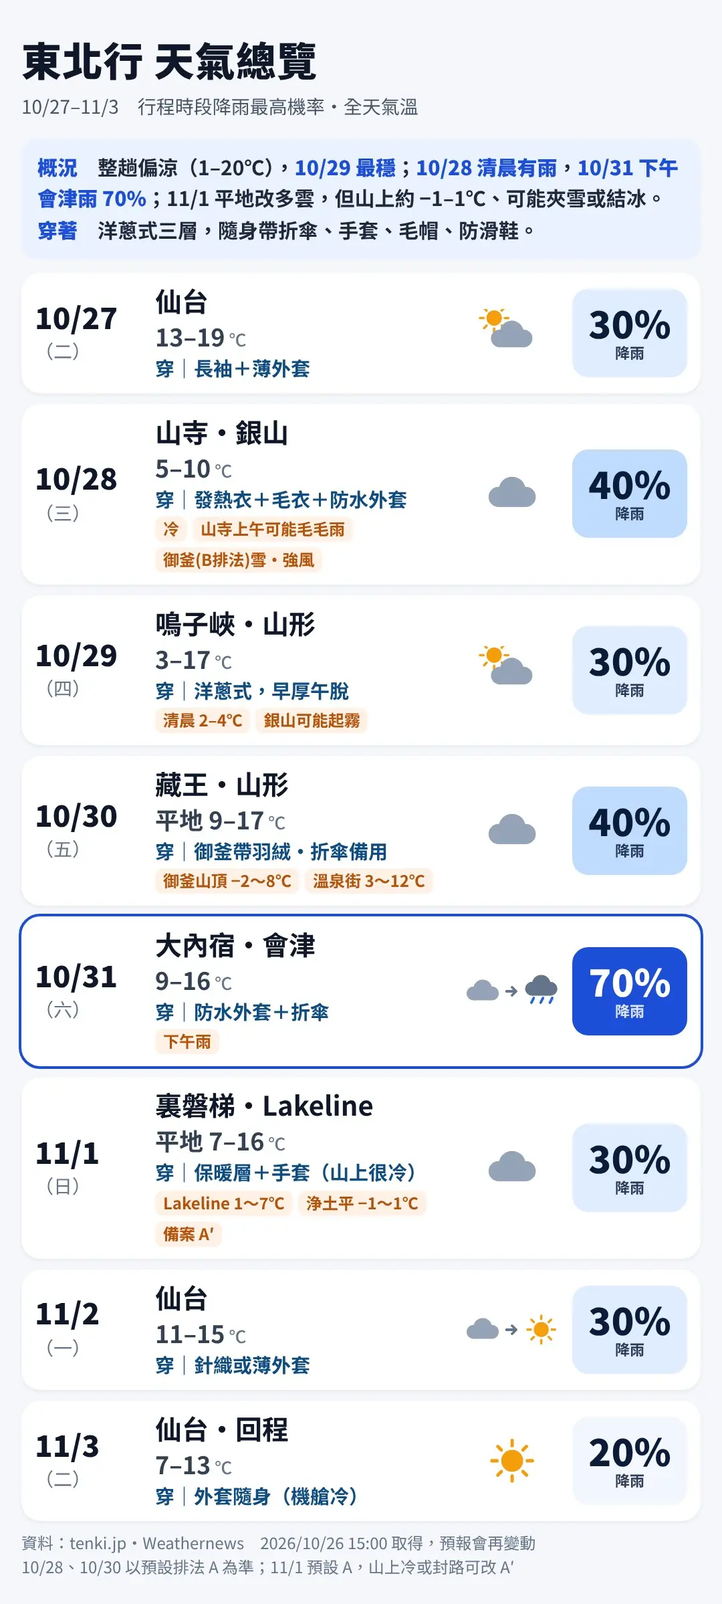
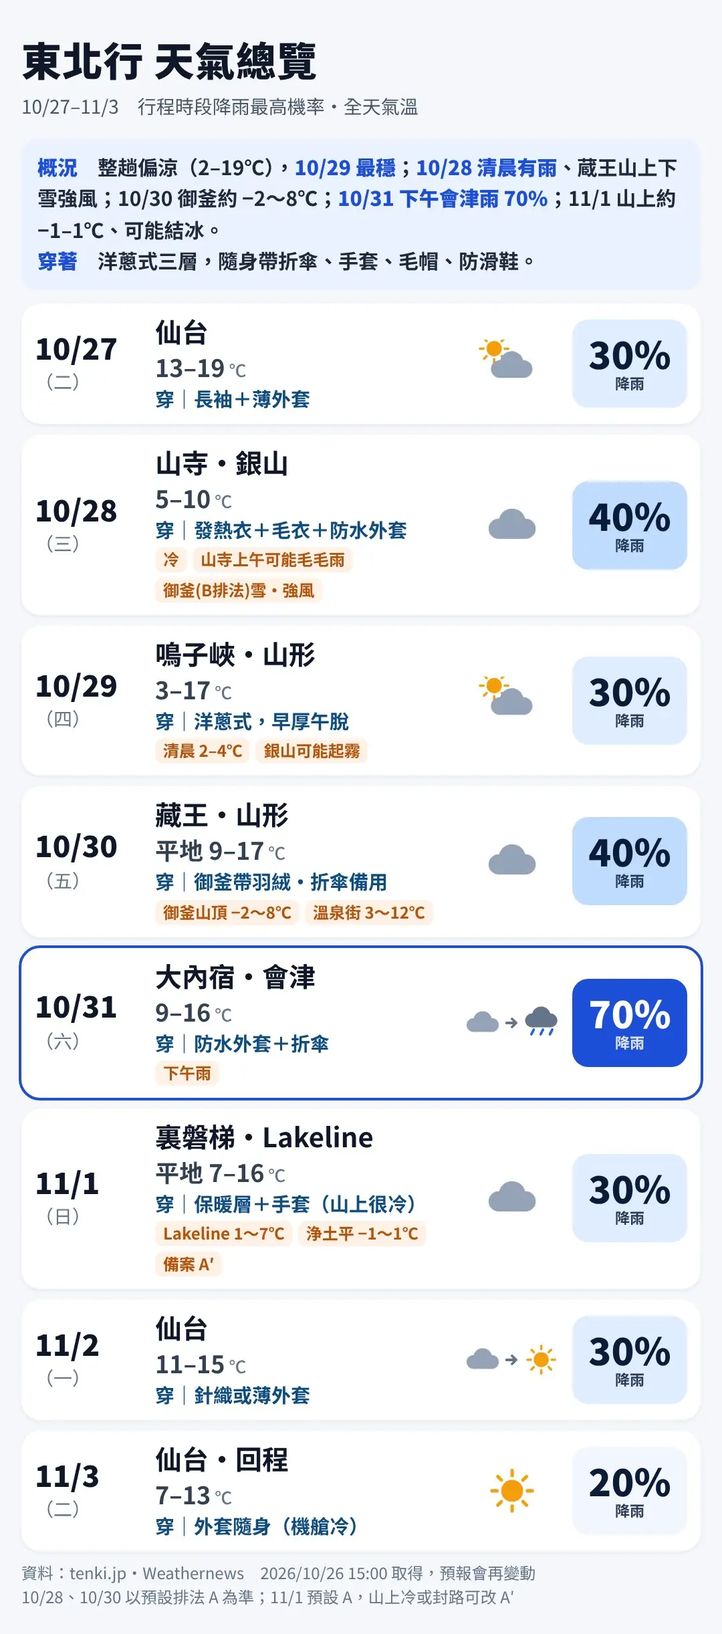
Weather overview image: updated summary (10/26 15:00)
Claude-Session: https://claude.ai/code/session_01AXqHpFH3E2eVramNhgNLps

diff --git a/index.html b/index.html
@@ -1263,7 +1263,7 @@ const ABOUT = {
   pick:["飛魚だし醤油そば（飛魚出汁醬油拉麵）","貝だし塩そば（貝類鹽味拉麵）"]}
 };
 
-const IMGS = /*IMGS*/{"zenjiro": [{"src": "img/zenjiro-1.webp?v=fb9d18cf", "cap": "牛舌定食・照片：娜塔蝦 滑雪食旅手記", "r": 1.333}, {"src": "img/zenjiro-2.webp?v=bd183727", "cap": "厚切牛舌・照片：Eikoku-Do Photography", "r": 1.501}], "yamadera": [{"src": "img/yamadera-0.webp?v=d143e5d3", "cap": "山寺境內導覽圖（點開可放大看路線）", "r": 2.142}, {"src": "img/yamadera-1.webp?v=36c22299", "cap": "五大堂俯瞰山寺聚落與紅葉", "r": 1.5}, {"src": "img/yamadera-2.webp?v=1e63aff1", "cap": "山寺山谷與 JR 仙山線列車", "r": 1.5}, {"src": "img/yamadera-3.webp?v=07c523de", "cap": "懸在岩壁上的開山堂、納經堂一帶", "r": 1.5}], "koshikake": [{"src": "img/koshikake-1.webp?v=00721771", "cap": "內用的蕨餅與熱茶", "r": 0.8}, {"src": "img/koshikake-2.webp?v=a17bb052", "cap": "外帶盒裝蕨餅", "r": 1.0}], "ginzan": [{"src": "img/ginzan-1.webp?v=35cf68cd", "cap": "銀山川兩岸的木造旅館與紅葉・照片：小氣少年 nicklee.tw", "r": 1.501}, {"src": "img/ginzan-2.webp?v=6c8ef967", "cap": "溫泉街底的白銀瀑布（白銀の滝）", "r": 1.5}, {"src": "img/ginzan-3.webp?v=bcbed402", "cap": "紅色小橋與江戶屋", "r": 1.5}, {"src": "img/ginzan-4.webp?v=0ef7cddb", "cap": "瓦斯燈點亮後的溫泉街夜景", "r": 1.4}, {"src": "img/ginzan-5.webp?v=5289d1ad", "cap": "秋天的溫泉街與木造旅館", "r": 1.4}], "narukorest": [{"src": "img/narukorest-1.webp?v=d4ecd665", "cap": "熱騰騰的菇菇湯", "r": 1.35}, {"src": "img/narukorest-2.webp?v=0b690ca6", "cap": "鳴子名物：餅處深瀬的栗子糰子", "r": 0.8}], "naruko": [{"src": "img/naruko-1.webp?v=4360db9c", "cap": "見晴台望向大深澤橋與紅葉・照片：小氣少年 nicklee.tw", "r": 1.501}, {"src": "img/naruko-2.webp?v=1f788efe", "cap": "晴天下的大深澤橋與峽谷・照片：小氣少年 nicklee.tw", "r": 1.501}, {"src": "img/naruko-3.webp?v=123037ab", "cap": "峽谷兩側的岩壁與紅葉・照片：小氣少年 nicklee.tw", "r": 1.501}], "yamagata7": [{"src": "img/yamagata7-1.webp?v=d48bb596", "cap": "山田家的白露ふうき豆", "r": 0.972}, {"src": "img/yamagata7-2.webp?v=58e432f2", "cap": "水の町屋 七日町御殿堰與水路旁的町屋", "r": 1.333}, {"src": "img/yamagata7-3.webp?v=add536b4", "cap": "御殿堰的石砌水路", "r": 0.8}], "tokiwa": [{"src": "img/tokiwa-1.webp?v=f744c100", "cap": "米澤牛壽喜燒", "r": 1.772}, {"src": "img/tokiwa-2.webp?v=f03a922b", "cap": "霜降米澤牛肉片與配菜", "r": 1.991}], "okama": [{"src": "img/okama-1.webp?v=56dbe7d1", "cap": "晴天時祖母綠色的御釜", "r": 1.5}, {"src": "img/okama-2.webp?v=000319d7", "cap": "御釜火口與五色岳", "r": 2.703}, {"src": "img/okama-3.webp?v=940e5e16", "cap": "刈田嶺神社奧宮的鳥居", "r": 0.8}, {"src": "img/okama-4.webp?v=18a66481", "cap": "搭刈田リフト（單人吊椅）上山的沿途風景", "r": 1.779}], "ropeway": [{"src": "img/ropeway-1.webp?v=34fbed52", "cap": "紅葉中的纜車車廂與藏王溫泉街", "r": 2.055}, {"src": "img/ropeway-2.webp?v=5f498f0b", "cap": "整片山坡的紅葉・照片：來一球叭噗", "r": 1.499}, {"src": "img/ropeway-3.webp?v=569b1de2", "cap": "纜車上俯瞰藏王溫泉街・照片：來一球叭噗", "r": 1.499}], "okumura": [{"src": "img/okumura-1.webp?v=246c9d19", "cap": "醬油中華そば", "r": 1.333}], "zaoonsen": [{"src": "img/zaoonsen-1.webp?v=48db9404", "cap": "酢川溫泉神社參道與冒著熱氣的溫泉街", "r": 1.335}, {"src": "img/zaoonsen-2.webp?v=6c8860e0", "cap": "酢川溫泉神社的紅色鳥居與石階", "r": 0.804}, {"src": "img/zaoonsen-3.webp?v=d19f1866", "cap": "山口餅屋的麻糬套餐", "r": 1.333}, {"src": "img/zaoonsen-4.webp?v=540d692a", "cap": "上湯共同浴場", "r": 1.0}, {"src": "img/zaoonsen-5.webp?v=cd50eb9b", "cap": "下湯共同浴場（冬季雪景）", "r": 1.333}], "zaobath": [{"src": "img/zaobath-1.webp?v=fff8893e", "cap": "溪谷中的藏王溫泉大露天風呂", "r": 0.8}, {"src": "img/zaobath-2.webp?v=6c4dbecb", "cap": "最上高湯 善七乃湯的露天岩風呂", "r": 1.779}], "shojiya": [{"src": "img/shojiya-1.webp?v=8224afa4", "cap": "木盒盛裝的二色冷蕎麥", "r": 1.029}, {"src": "img/shojiya-2.webp?v=94c0c19f", "cap": "天婦羅冷蕎麥套餐", "r": 1.576}], "ouchi": [{"src": "img/ouchi-1.webp?v=c2d82996", "cap": "秋天的茅葺屋頂與紅葉", "r": 1.501}, {"src": "img/ouchi-2.webp?v=e27ecc67", "cap": "宿場町街道與後山紅葉・照片：Mimi韓 Travel", "r": 1.502}], "misawaya": [{"src": "img/misawaya-1.webp?v=0e39c43d", "cap": "用一整根大蔥當筷子的高遠そば", "r": 0.8}], "tsuruga": [{"src": "img/tsuruga-1.webp?v=35e38bc3", "cap": "秋天紅葉中的紅瓦天守", "r": 1.589}, {"src": "img/tsuruga-2.webp?v=af7526fb", "cap": "石垣上的天守閣", "r": 1.642}], "aizu7": [{"src": "img/aizu7-1.webp?v=9261fa64", "cap": "七日町通的復古街景", "r": 1.503}, {"src": "img/aizu7-2.webp?v=bc8d69d8", "cap": "会津壱番館的厚片吐司與咖啡・照片：IMMAY.TW", "r": 1.67}], "takino": [{"src": "img/takino-1.webp?v=83a1017d", "cap": "輪箱飯套餐與大蔥蕎麥・照片：旅行圖中 Journey.tw", "r": 1.503}, {"src": "img/takino-2.webp?v=34bac679", "cap": "鮭魚卵、蟹肉、山菜輪箱飯・照片：IMMAY.TW", "r": 1.503}], "tadami": [{"src": "img/tadami-1.webp?v=18cd8bfa", "cap": "秋天的第一只見川橋梁，列車緩緩駛過鐵橋", "r": 1.778}, {"src": "img/tadami-2.webp?v=afb4f35d", "cap": "俯瞰鐵橋與紅葉（圖片來源：YUKA×日系女子研究室）", "r": 0.8}], "tontei": [{"src": "img/tontei-1.webp?v=1526aa70", "cap": "とん亭 ソースかつ丼：厚切豬排鋪在高麗菜絲上，附醬菜與味噌湯", "r": 1.51}, {"src": "img/tontei-2.webp?v=3b6fcb24", "cap": "八重うまっ ソースかつ丼：桜肉（馬肉）版本，附木蓋與芥末", "r": 1.568}], "goshiki": [{"src": "img/goshiki-1.webp?v=3cc0070c", "cap": "湖水呈鈷藍色，蘆葦與紅葉相映（圖片來源：Celia's City）", "r": 1.502}, {"src": "img/goshiki-2.webp?v=45993578", "cap": "如鏡面般的湖面倒映紅葉（圖片來源：Mimi韓's Travel）", "r": 1.502}, {"src": "img/goshiki-3.webp?v=a34f53d6", "cap": "自然探勝路旁的楓紅（圖片來源：Mimi韓's Travel）", "r": 1.502}, {"src": "img/goshiki-4.webp?v=6e80a58e", "cap": "藍綠色湖面與蘆葦（圖片來源：Mimi韓's Travel）", "r": 1.502}], "kofuji": [{"src": "img/kofuji-1.webp?v=f3df7d8d", "cap": "吾妻小富士的火口，步道沿火口邊緣繞行", "r": 1.442}], "tengu": [{"src": "img/tengu-1.webp?v=d722cad6", "cap": "天狗の庭一帶的山景與紅葉，遠處可見雲海", "r": 2.579}], "fudo": [{"src": "img/fudo-1.webp?v=93d9a0b3", "cap": "不動澤橋：紅褐色拱橋橫跨紅葉谷地", "r": 2.013}], "skyline": [{"src": "img/skyline-1.webp?v=28535852", "cap": "Skyline 沿途：火山岩山坡與滿山紅葉", "r": 1.875}, {"src": "img/skyline-2.webp?v=66d25be6", "cap": "Skyline 觀景點：可遠眺福島盆地", "r": 1.433}], "botan": [{"src": "img/botan-1.webp?v=37c76a5c", "cap": "厚切豬排定食：炸衣酥脆、切面粉嫩，附飯、味噌湯與醬菜", "r": 1.895}, {"src": "img/botan-2.webp?v=2c9359b9", "cap": "もち豚（餅豬）豬排：附芥末與黃芥末，可沾鹽或醬汁", "r": 1.413}], "abe": [{"src": "img/abe-1.webp?v=251e3d85", "cap": "阿部蒲鉾店的炸魚板串，淋上番茄醬（圖片來源：Bring-You）", "r": 1.5}, {"src": "img/abe-2.webp?v=cc8b6e39", "cap": "阿部蒲鉾店的烤魚板（笹かまぼこ），現烤微焦香（圖片來源：郭小寶・這就是青春）", "r": 1.499}], "ida": [{"src": "img/ida-1.webp?v=27a957d9", "cap": "お茶の井ヶ田的毛豆（ずんだ）霜淇淋", "r": 0.92}], "kaku": [{"src": "img/kaku-1.webp?v=89fe5f26", "cap": "たん焼き定食：厚切炭烤牛舌，附醃白菜與味噌醬", "r": 1.633}, {"src": "img/kaku-2.webp?v=8aa8a61d", "cap": "炙燒生牛舌：表面炙香、中間粉嫩，配蔥花與檸檬", "r": 1.449}], "anko": [{"src": "img/anko-1.webp?v=b2e63b5a", "cap": "店內陳列的各式銅鑼燒，口味多種（有くるみ、もち、バター等）", "r": 2.093}, {"src": "img/anko-2.webp?v=dcd4b3b6", "cap": "抹茶奶餡配紅豆餡的銅鑼燒切面", "r": 1.235}], "kamomaru": [{"src": "img/kamomaru-1.webp?v=7345eb6d", "cap": "鴨まる：鴨肉片與炙烤蔥段", "r": 1.178}, {"src": "img/kamomaru-2.webp?v=cdb02467", "cap": "手打蕎麥麵搭配炙烤鴨肉與蔥，附山葵", "r": 1.748}], "saito": [{"src": "img/saito-1.webp?v=6a9a833f", "cap": "齊藤熟食店現炸的酥脆可樂餅", "r": 1.021}], "umino": [{"src": "img/umino-1.webp?v=9eee8bca", "cap": "うみのおきて：生蠔搭配檸檬、蔥花與明太子", "r": 0.97}], "dashiro": [{"src": "img/dashiro-1.webp?v=7a4cc8d0", "cap": "貝だし塩そば：貝類熬煮的溫潤湯頭，配洋蔥與淡菜", "r": 1.433}, {"src": "img/dashiro-2.webp?v=89df7073", "cap": "飛魚だし醤油そば：醬油湯頭配三種叉燒與筍乾", "r": 1.391}], "midoriya": [{"src": "img/midoriya-1.webp?v=049a670a", "cap": "手打蕎麥麵與天婦羅套餐", "r": 0.808}], "endo": [{"src": "img/endo-1.webp?v=99e77926", "cap": "芋煮セット、紅花づくし 各 ¥1,200（官網菜單）", "r": 1.322}, {"src": "img/endo-2.webp?v=fbb04aa0", "cap": "山形芋煮、山菜いも団子、玉こんにゃく、宝珠っ子、ずんだっ娘、ラフランスソフト（官網菜單）", "r": 1.331}], "homura": [{"src": "img/homura-1.webp?v=90503de4", "cap": "叉燒拉麵", "r": 0.977}, {"src": "img/homura-2.webp?v=cfd8c6a4", "cap": "蕎麥麵與熱湯鍋、小菜的套餐", "r": 0.88}], "taimenseki": [{"src": "img/taimenseki-1.webp?v=75f19e00", "cap": "蕎麥麵與鐵鍋熱湯", "r": 1.429}, {"src": "img/taimenseki-2.webp?v=9b1da28d", "cap": "蕎麥麵、鐵鍋熱湯與小菜的定食", "r": 2.278}], "showakan": [{"src": "img/showakan-1.webp?v=87750d88", "cap": "二樓大浴場（左：男湯、右：女湯）", "r": 3.321}, {"src": "img/showakan-2.webp?v=ccaa7ac7", "cap": "六樓天空風呂（半露天）", "r": 1.525}], "almont": [{"src": "img/almont-1.webp?v=c039600f", "cap": "大浴場「千代の湯」", "r": 2.571}, {"src": "img/almont-2.webp?v=a3db8884", "cap": "大浴場「千代の湯」（浴池）", "r": 2.571}], "tamagoyu": [{"src": "img/tamagoyu-1.webp?v=55666296", "cap": "湯小屋「玉子湯」", "r": 1.779}, {"src": "img/tamagoyu-2.webp?v=d72ec058", "cap": "野天岩風呂「天溪之湯」", "r": 1.333}, {"src": "img/tamagoyu-3.webp?v=cbb45bf0", "cap": "貸切露天風呂「瀬音」（需另付費）", "r": 1.5}, {"src": "img/tamagoyu-4.webp?v=6ce838fc", "cap": "大浴場「滝の湯」（4 樓，備有洗髮精、潤絲精、沐浴乳）", "r": 1.5}, {"src": "img/tamagoyu-5.webp?v=a4d02392", "cap": "足湯「のんびり足湯」", "r": 1.5}, {"src": "img/tamagoyu-6.webp?v=df732926", "cap": "内湯「仙気の湯」（1 樓，備有洗髮精等，夜の部開放）", "r": 1.5}], "coela": [{"src": "img/coela-1.webp?v=9e098822", "cap": "Maison Cœlacanthe 奶油紅豆最中（切面）", "r": 0.928}, {"src": "img/coela-2.webp?v=66b7369c", "cap": "仙台機場 2F 商店位置（紅框處為「萩」）", "r": 2.326}], "om-calbee": [{"src": "img/om-calbee-1.webp?v=85041519", "cap": "Calbee 青森富士蘋果乾", "r": 0.8}], "om-kikufuku": [{"src": "img/om-kikufuku-1.webp?v=f6f4454b", "cap": "喜久水庵 喜久福（冷凍鮮奶油冰大福）", "r": 0.8}], "om-hagi": [{"src": "img/om-hagi-1.webp?v=20042c76", "cap": "萩の月", "r": 0.8}], "om-sasa": [{"src": "img/om-sasa-1.webp?v=37bb7d2e", "cap": "笹蒲鉾（魚板）", "r": 0.8}], "om-zsand": [{"src": "img/om-zsand-1.webp?v=8c370989", "cap": "毛豆泥奶昔巧克力夾心餅乾", "r": 0.8}], "om-zmochi": [{"src": "img/om-zmochi-1.webp?v=b28e7119", "cap": "ずんだ茶寮 毛豆泥麻糬（ずんだ餅）", "r": 0.8}], "om-eisen": [{"src": "img/om-eisen-1.webp?v=096748dd", "cap": "榮泉堂（EISENDO）鹽奶油最中", "r": 1.0}, {"src": "img/coela-1.webp?v=9e098822", "cap": "榮泉堂 奶油紅豆腔棘魚最中（切面）", "r": 0.928}, {"src": "img/om-where-1.webp?v=66b7369c", "cap": "仙台機場 2F 商店位置（紅框處為「萩」）", "r": 2.326}], "om-where": [{"src": "img/om-where-1.webp?v=66b7369c", "cap": "仙台機場 2F 商店位置（紅框處為「萩」）", "r": 2.326}], "om-kitkat": [{"src": "img/om-kitkat-1.webp?v=047b8a8c", "cap": "KitKat × ずんだ茶寮 毛豆奶昔風味（¥1,069／9 入）", "r": 2.2}], "om-tokimeki": [{"src": "img/om-tokimeki-1.webp?v=d5662dd3", "cap": "悸動山形 米香巧克力球（¥540／6 入）", "r": 2.415}], "om-date": [{"src": "img/om-date-1.webp?v=576f0820", "cap": "伊達正夢 烤飯糰仙貝（¥702／8 入）", "r": 1.633}], "fukase": [{"src": "img/fukase-1.webp?v=98da5d7d", "cap": "餅処 深瀬 栗だんご（鳴子名物）", "r": 1.114}], "om-iwabuchi": [{"src": "img/om-iwabuchi-1.webp?v=200f538d", "cap": "お茶と菓で 岩淵（IWABUCHI）濕潤巧克力軟餅乾（抹茶）", "r": 1.493}], "om-c3": [{"src": "img/om-c3-1.webp?v=481e2499", "cap": "C³（C-CUBE）烤提拉米蘇（焼きティラミス）", "r": 1.034}], "am-afactory": [{"src": "img/am-afactory-1.webp?v=ae30749d", "cap": "A-FACTORY 蘋果焦糖奶油夾心餅乾（APPLE CARAMEL BUTTER SAND）", "r": 3.289}], "am-ragu": [{"src": "img/am-ragu-1.webp?v=1f324fb4", "cap": "ラグノオ 甜點師的蘋果派棒（パティシエのりんごスティック）", "r": 1.286}], "am-choco": [{"src": "img/am-choco-1.webp?v=f0d2d1d1", "cap": "小松製菓 となりのちょこちゃん（南部仙貝×巧克力）", "r": 0.86}], "am-golden": [{"src": "img/am-golden-1.webp?v=ed8543cd", "cap": "青森 ～金色之約～ 米香夾心餅乾", "r": 1.0}], "am-garlic": [{"src": "img/am-garlic-1.webp?v=113733b6", "cap": "青森大蒜仙貝（にんにくせんべい）", "r": 0.99}], "om-oranda": [{"src": "img/om-oranda-1.webp?v=5abc983a", "cap": "酒田米菓 荷蘭仙貝（オランダせんべい）烤玉米風味", "r": 1.141}], "om-jagabee": [{"src": "img/om-jagabee-1.webp?v=6489b77a", "cap": "Calbee Jagabee（じゃがビー）毛豆泥風味", "r": 0.987}], "om-jagarico": [{"src": "img/om-jagarico-1.webp?v=2b013c13", "cap": "Calbee じゃがりこ 牛たん味", "r": 0.933}], "om-babystar": [{"src": "img/om-babystar-1.webp?v=f6c5efc6", "cap": "ベビースター 牛タン味（仙台發祥・東北限定）", "r": 1.792}], "om-gyusen": [{"src": "img/om-gyusen-1.webp?v=9ad0654a", "cap": "伊達の牛たん本舗 牛たんせんべい", "r": 1.07}], "seiwa": [{"src": "img/seiwa-1.webp?v=0fb713ee", "cap": "焼肉食堂 清和 鳴子店", "r": 1.364}], "egao": [{"src": "img/egao-1.webp?v=38384b57", "cap": "ゑがほ食堂 山菜そば", "r": 1.353}], "nakatsugawa": [{"src": "img/nakatsugawa-1.webp?v=df1d59c7", "cap": "中津川渓谷（磐梯吾妻レークライン沿線）", "r": 0.946}, {"src": "img/nakatsugawa-2.webp?v=80de8694", "cap": "レークライン 秋季紅葉與落葉松景觀點", "r": 1.772}], "lakeresort": [{"src": "img/lakeresort-1.webp?v=7edcbc13", "cap": "露天風呂：緊鄰檜原湖，呈金黃褐色的湯", "r": 1.501}, {"src": "img/lakeresort-2.webp?v=36cb7d5d", "cap": "室內大浴場", "r": 1.475}], "nishimuraya": [{"src": "img/nishimuraya-1.webp?v=50b0d451", "cap": "渓流露天風呂（24 小時開放）", "r": 2.267}, {"src": "img/nishimuraya-2.webp?v=446d8369", "cap": "檜木風呂（男女依時段輪替）", "r": 2.169}, {"src": "img/nishimuraya-3.webp?v=1f4b759f", "cap": "大岩風呂（男女依時段輪替）", "r": 2.302}], "coupon-bic": [{"src": "img/coupon-bic-1.webp?v=dffa415a", "cap": "BicCamera／KOJIMA 免稅優惠券（結帳時兩個條碼都要掃，點圖放大）", "r": 0.8}], "wx-overview": [{"src": "img/wx-overview-1.webp?v=42d41398", "cap": "天氣總覽（2026/10/26 預報，10/28、10/30 以預設排法 A 為準）", "r": 0.8}], "kindle": [{"src": "img/kojima-2.webp?v=1c09402c", "cap": "Kindle Paperwhite シグニチャーエディション（kojima.net 截圖，可給店員看）", "r": 0.8}]}/*END*/;
+const IMGS = /*IMGS*/{"zenjiro": [{"src": "img/zenjiro-1.webp?v=fb9d18cf", "cap": "牛舌定食・照片：娜塔蝦 滑雪食旅手記", "r": 1.333}, {"src": "img/zenjiro-2.webp?v=bd183727", "cap": "厚切牛舌・照片：Eikoku-Do Photography", "r": 1.501}], "yamadera": [{"src": "img/yamadera-0.webp?v=d143e5d3", "cap": "山寺境內導覽圖（點開可放大看路線）", "r": 2.142}, {"src": "img/yamadera-1.webp?v=36c22299", "cap": "五大堂俯瞰山寺聚落與紅葉", "r": 1.5}, {"src": "img/yamadera-2.webp?v=1e63aff1", "cap": "山寺山谷與 JR 仙山線列車", "r": 1.5}, {"src": "img/yamadera-3.webp?v=07c523de", "cap": "懸在岩壁上的開山堂、納經堂一帶", "r": 1.5}], "koshikake": [{"src": "img/koshikake-1.webp?v=00721771", "cap": "內用的蕨餅與熱茶", "r": 0.8}, {"src": "img/koshikake-2.webp?v=a17bb052", "cap": "外帶盒裝蕨餅", "r": 1.0}], "ginzan": [{"src": "img/ginzan-1.webp?v=35cf68cd", "cap": "銀山川兩岸的木造旅館與紅葉・照片：小氣少年 nicklee.tw", "r": 1.501}, {"src": "img/ginzan-2.webp?v=6c8ef967", "cap": "溫泉街底的白銀瀑布（白銀の滝）", "r": 1.5}, {"src": "img/ginzan-3.webp?v=bcbed402", "cap": "紅色小橋與江戶屋", "r": 1.5}, {"src": "img/ginzan-4.webp?v=0ef7cddb", "cap": "瓦斯燈點亮後的溫泉街夜景", "r": 1.4}, {"src": "img/ginzan-5.webp?v=5289d1ad", "cap": "秋天的溫泉街與木造旅館", "r": 1.4}], "narukorest": [{"src": "img/narukorest-1.webp?v=d4ecd665", "cap": "熱騰騰的菇菇湯", "r": 1.35}, {"src": "img/narukorest-2.webp?v=0b690ca6", "cap": "鳴子名物：餅處深瀬的栗子糰子", "r": 0.8}], "naruko": [{"src": "img/naruko-1.webp?v=4360db9c", "cap": "見晴台望向大深澤橋與紅葉・照片：小氣少年 nicklee.tw", "r": 1.501}, {"src": "img/naruko-2.webp?v=1f788efe", "cap": "晴天下的大深澤橋與峽谷・照片：小氣少年 nicklee.tw", "r": 1.501}, {"src": "img/naruko-3.webp?v=123037ab", "cap": "峽谷兩側的岩壁與紅葉・照片：小氣少年 nicklee.tw", "r": 1.501}], "yamagata7": [{"src": "img/yamagata7-1.webp?v=d48bb596", "cap": "山田家的白露ふうき豆", "r": 0.972}, {"src": "img/yamagata7-2.webp?v=58e432f2", "cap": "水の町屋 七日町御殿堰與水路旁的町屋", "r": 1.333}, {"src": "img/yamagata7-3.webp?v=add536b4", "cap": "御殿堰的石砌水路", "r": 0.8}], "tokiwa": [{"src": "img/tokiwa-1.webp?v=f744c100", "cap": "米澤牛壽喜燒", "r": 1.772}, {"src": "img/tokiwa-2.webp?v=f03a922b", "cap": "霜降米澤牛肉片與配菜", "r": 1.991}], "okama": [{"src": "img/okama-1.webp?v=56dbe7d1", "cap": "晴天時祖母綠色的御釜", "r": 1.5}, {"src": "img/okama-2.webp?v=000319d7", "cap": "御釜火口與五色岳", "r": 2.703}, {"src": "img/okama-3.webp?v=940e5e16", "cap": "刈田嶺神社奧宮的鳥居", "r": 0.8}, {"src": "img/okama-4.webp?v=18a66481", "cap": "搭刈田リフト（單人吊椅）上山的沿途風景", "r": 1.779}], "ropeway": [{"src": "img/ropeway-1.webp?v=34fbed52", "cap": "紅葉中的纜車車廂與藏王溫泉街", "r": 2.055}, {"src": "img/ropeway-2.webp?v=5f498f0b", "cap": "整片山坡的紅葉・照片：來一球叭噗", "r": 1.499}, {"src": "img/ropeway-3.webp?v=569b1de2", "cap": "纜車上俯瞰藏王溫泉街・照片：來一球叭噗", "r": 1.499}], "okumura": [{"src": "img/okumura-1.webp?v=246c9d19", "cap": "醬油中華そば", "r": 1.333}], "zaoonsen": [{"src": "img/zaoonsen-1.webp?v=48db9404", "cap": "酢川溫泉神社參道與冒著熱氣的溫泉街", "r": 1.335}, {"src": "img/zaoonsen-2.webp?v=6c8860e0", "cap": "酢川溫泉神社的紅色鳥居與石階", "r": 0.804}, {"src": "img/zaoonsen-3.webp?v=d19f1866", "cap": "山口餅屋的麻糬套餐", "r": 1.333}, {"src": "img/zaoonsen-4.webp?v=540d692a", "cap": "上湯共同浴場", "r": 1.0}, {"src": "img/zaoonsen-5.webp?v=cd50eb9b", "cap": "下湯共同浴場（冬季雪景）", "r": 1.333}], "zaobath": [{"src": "img/zaobath-1.webp?v=fff8893e", "cap": "溪谷中的藏王溫泉大露天風呂", "r": 0.8}, {"src": "img/zaobath-2.webp?v=6c4dbecb", "cap": "最上高湯 善七乃湯的露天岩風呂", "r": 1.779}], "shojiya": [{"src": "img/shojiya-1.webp?v=8224afa4", "cap": "木盒盛裝的二色冷蕎麥", "r": 1.029}, {"src": "img/shojiya-2.webp?v=94c0c19f", "cap": "天婦羅冷蕎麥套餐", "r": 1.576}], "ouchi": [{"src": "img/ouchi-1.webp?v=c2d82996", "cap": "秋天的茅葺屋頂與紅葉", "r": 1.501}, {"src": "img/ouchi-2.webp?v=e27ecc67", "cap": "宿場町街道與後山紅葉・照片：Mimi韓 Travel", "r": 1.502}], "misawaya": [{"src": "img/misawaya-1.webp?v=0e39c43d", "cap": "用一整根大蔥當筷子的高遠そば", "r": 0.8}], "tsuruga": [{"src": "img/tsuruga-1.webp?v=35e38bc3", "cap": "秋天紅葉中的紅瓦天守", "r": 1.589}, {"src": "img/tsuruga-2.webp?v=af7526fb", "cap": "石垣上的天守閣", "r": 1.642}], "aizu7": [{"src": "img/aizu7-1.webp?v=9261fa64", "cap": "七日町通的復古街景", "r": 1.503}, {"src": "img/aizu7-2.webp?v=bc8d69d8", "cap": "会津壱番館的厚片吐司與咖啡・照片：IMMAY.TW", "r": 1.67}], "takino": [{"src": "img/takino-1.webp?v=83a1017d", "cap": "輪箱飯套餐與大蔥蕎麥・照片：旅行圖中 Journey.tw", "r": 1.503}, {"src": "img/takino-2.webp?v=34bac679", "cap": "鮭魚卵、蟹肉、山菜輪箱飯・照片：IMMAY.TW", "r": 1.503}], "tadami": [{"src": "img/tadami-1.webp?v=18cd8bfa", "cap": "秋天的第一只見川橋梁，列車緩緩駛過鐵橋", "r": 1.778}, {"src": "img/tadami-2.webp?v=afb4f35d", "cap": "俯瞰鐵橋與紅葉（圖片來源：YUKA×日系女子研究室）", "r": 0.8}], "tontei": [{"src": "img/tontei-1.webp?v=1526aa70", "cap": "とん亭 ソースかつ丼：厚切豬排鋪在高麗菜絲上，附醬菜與味噌湯", "r": 1.51}, {"src": "img/tontei-2.webp?v=3b6fcb24", "cap": "八重うまっ ソースかつ丼：桜肉（馬肉）版本，附木蓋與芥末", "r": 1.568}], "goshiki": [{"src": "img/goshiki-1.webp?v=3cc0070c", "cap": "湖水呈鈷藍色，蘆葦與紅葉相映（圖片來源：Celia's City）", "r": 1.502}, {"src": "img/goshiki-2.webp?v=45993578", "cap": "如鏡面般的湖面倒映紅葉（圖片來源：Mimi韓's Travel）", "r": 1.502}, {"src": "img/goshiki-3.webp?v=a34f53d6", "cap": "自然探勝路旁的楓紅（圖片來源：Mimi韓's Travel）", "r": 1.502}, {"src": "img/goshiki-4.webp?v=6e80a58e", "cap": "藍綠色湖面與蘆葦（圖片來源：Mimi韓's Travel）", "r": 1.502}], "kofuji": [{"src": "img/kofuji-1.webp?v=f3df7d8d", "cap": "吾妻小富士的火口，步道沿火口邊緣繞行", "r": 1.442}], "tengu": [{"src": "img/tengu-1.webp?v=d722cad6", "cap": "天狗の庭一帶的山景與紅葉，遠處可見雲海", "r": 2.579}], "fudo": [{"src": "img/fudo-1.webp?v=93d9a0b3", "cap": "不動澤橋：紅褐色拱橋橫跨紅葉谷地", "r": 2.013}], "skyline": [{"src": "img/skyline-1.webp?v=28535852", "cap": "Skyline 沿途：火山岩山坡與滿山紅葉", "r": 1.875}, {"src": "img/skyline-2.webp?v=66d25be6", "cap": "Skyline 觀景點：可遠眺福島盆地", "r": 1.433}], "botan": [{"src": "img/botan-1.webp?v=37c76a5c", "cap": "厚切豬排定食：炸衣酥脆、切面粉嫩，附飯、味噌湯與醬菜", "r": 1.895}, {"src": "img/botan-2.webp?v=2c9359b9", "cap": "もち豚（餅豬）豬排：附芥末與黃芥末，可沾鹽或醬汁", "r": 1.413}], "abe": [{"src": "img/abe-1.webp?v=251e3d85", "cap": "阿部蒲鉾店的炸魚板串，淋上番茄醬（圖片來源：Bring-You）", "r": 1.5}, {"src": "img/abe-2.webp?v=cc8b6e39", "cap": "阿部蒲鉾店的烤魚板（笹かまぼこ），現烤微焦香（圖片來源：郭小寶・這就是青春）", "r": 1.499}], "ida": [{"src": "img/ida-1.webp?v=27a957d9", "cap": "お茶の井ヶ田的毛豆（ずんだ）霜淇淋", "r": 0.92}], "kaku": [{"src": "img/kaku-1.webp?v=89fe5f26", "cap": "たん焼き定食：厚切炭烤牛舌，附醃白菜與味噌醬", "r": 1.633}, {"src": "img/kaku-2.webp?v=8aa8a61d", "cap": "炙燒生牛舌：表面炙香、中間粉嫩，配蔥花與檸檬", "r": 1.449}], "anko": [{"src": "img/anko-1.webp?v=b2e63b5a", "cap": "店內陳列的各式銅鑼燒，口味多種（有くるみ、もち、バター等）", "r": 2.093}, {"src": "img/anko-2.webp?v=dcd4b3b6", "cap": "抹茶奶餡配紅豆餡的銅鑼燒切面", "r": 1.235}], "kamomaru": [{"src": "img/kamomaru-1.webp?v=7345eb6d", "cap": "鴨まる：鴨肉片與炙烤蔥段", "r": 1.178}, {"src": "img/kamomaru-2.webp?v=cdb02467", "cap": "手打蕎麥麵搭配炙烤鴨肉與蔥，附山葵", "r": 1.748}], "saito": [{"src": "img/saito-1.webp?v=6a9a833f", "cap": "齊藤熟食店現炸的酥脆可樂餅", "r": 1.021}], "umino": [{"src": "img/umino-1.webp?v=9eee8bca", "cap": "うみのおきて：生蠔搭配檸檬、蔥花與明太子", "r": 0.97}], "dashiro": [{"src": "img/dashiro-1.webp?v=7a4cc8d0", "cap": "貝だし塩そば：貝類熬煮的溫潤湯頭，配洋蔥與淡菜", "r": 1.433}, {"src": "img/dashiro-2.webp?v=89df7073", "cap": "飛魚だし醤油そば：醬油湯頭配三種叉燒與筍乾", "r": 1.391}], "midoriya": [{"src": "img/midoriya-1.webp?v=049a670a", "cap": "手打蕎麥麵與天婦羅套餐", "r": 0.808}], "endo": [{"src": "img/endo-1.webp?v=99e77926", "cap": "芋煮セット、紅花づくし 各 ¥1,200（官網菜單）", "r": 1.322}, {"src": "img/endo-2.webp?v=fbb04aa0", "cap": "山形芋煮、山菜いも団子、玉こんにゃく、宝珠っ子、ずんだっ娘、ラフランスソフト（官網菜單）", "r": 1.331}], "homura": [{"src": "img/homura-1.webp?v=90503de4", "cap": "叉燒拉麵", "r": 0.977}, {"src": "img/homura-2.webp?v=cfd8c6a4", "cap": "蕎麥麵與熱湯鍋、小菜的套餐", "r": 0.88}], "taimenseki": [{"src": "img/taimenseki-1.webp?v=75f19e00", "cap": "蕎麥麵與鐵鍋熱湯", "r": 1.429}, {"src": "img/taimenseki-2.webp?v=9b1da28d", "cap": "蕎麥麵、鐵鍋熱湯與小菜的定食", "r": 2.278}], "showakan": [{"src": "img/showakan-1.webp?v=87750d88", "cap": "二樓大浴場（左：男湯、右：女湯）", "r": 3.321}, {"src": "img/showakan-2.webp?v=ccaa7ac7", "cap": "六樓天空風呂（半露天）", "r": 1.525}], "almont": [{"src": "img/almont-1.webp?v=c039600f", "cap": "大浴場「千代の湯」", "r": 2.571}, {"src": "img/almont-2.webp?v=a3db8884", "cap": "大浴場「千代の湯」（浴池）", "r": 2.571}], "tamagoyu": [{"src": "img/tamagoyu-1.webp?v=55666296", "cap": "湯小屋「玉子湯」", "r": 1.779}, {"src": "img/tamagoyu-2.webp?v=d72ec058", "cap": "野天岩風呂「天溪之湯」", "r": 1.333}, {"src": "img/tamagoyu-3.webp?v=cbb45bf0", "cap": "貸切露天風呂「瀬音」（需另付費）", "r": 1.5}, {"src": "img/tamagoyu-4.webp?v=6ce838fc", "cap": "大浴場「滝の湯」（4 樓，備有洗髮精、潤絲精、沐浴乳）", "r": 1.5}, {"src": "img/tamagoyu-5.webp?v=a4d02392", "cap": "足湯「のんびり足湯」", "r": 1.5}, {"src": "img/tamagoyu-6.webp?v=df732926", "cap": "内湯「仙気の湯」（1 樓，備有洗髮精等，夜の部開放）", "r": 1.5}], "coela": [{"src": "img/coela-1.webp?v=9e098822", "cap": "Maison Cœlacanthe 奶油紅豆最中（切面）", "r": 0.928}, {"src": "img/coela-2.webp?v=66b7369c", "cap": "仙台機場 2F 商店位置（紅框處為「萩」）", "r": 2.326}], "om-calbee": [{"src": "img/om-calbee-1.webp?v=85041519", "cap": "Calbee 青森富士蘋果乾", "r": 0.8}], "om-kikufuku": [{"src": "img/om-kikufuku-1.webp?v=f6f4454b", "cap": "喜久水庵 喜久福（冷凍鮮奶油冰大福）", "r": 0.8}], "om-hagi": [{"src": "img/om-hagi-1.webp?v=20042c76", "cap": "萩の月", "r": 0.8}], "om-sasa": [{"src": "img/om-sasa-1.webp?v=37bb7d2e", "cap": "笹蒲鉾（魚板）", "r": 0.8}], "om-zsand": [{"src": "img/om-zsand-1.webp?v=8c370989", "cap": "毛豆泥奶昔巧克力夾心餅乾", "r": 0.8}], "om-zmochi": [{"src": "img/om-zmochi-1.webp?v=b28e7119", "cap": "ずんだ茶寮 毛豆泥麻糬（ずんだ餅）", "r": 0.8}], "om-eisen": [{"src": "img/om-eisen-1.webp?v=096748dd", "cap": "榮泉堂（EISENDO）鹽奶油最中", "r": 1.0}, {"src": "img/coela-1.webp?v=9e098822", "cap": "榮泉堂 奶油紅豆腔棘魚最中（切面）", "r": 0.928}, {"src": "img/om-where-1.webp?v=66b7369c", "cap": "仙台機場 2F 商店位置（紅框處為「萩」）", "r": 2.326}], "om-where": [{"src": "img/om-where-1.webp?v=66b7369c", "cap": "仙台機場 2F 商店位置（紅框處為「萩」）", "r": 2.326}], "om-kitkat": [{"src": "img/om-kitkat-1.webp?v=047b8a8c", "cap": "KitKat × ずんだ茶寮 毛豆奶昔風味（¥1,069／9 入）", "r": 2.2}], "om-tokimeki": [{"src": "img/om-tokimeki-1.webp?v=d5662dd3", "cap": "悸動山形 米香巧克力球（¥540／6 入）", "r": 2.415}], "om-date": [{"src": "img/om-date-1.webp?v=576f0820", "cap": "伊達正夢 烤飯糰仙貝（¥702／8 入）", "r": 1.633}], "fukase": [{"src": "img/fukase-1.webp?v=98da5d7d", "cap": "餅処 深瀬 栗だんご（鳴子名物）", "r": 1.114}], "om-iwabuchi": [{"src": "img/om-iwabuchi-1.webp?v=200f538d", "cap": "お茶と菓で 岩淵（IWABUCHI）濕潤巧克力軟餅乾（抹茶）", "r": 1.493}], "om-c3": [{"src": "img/om-c3-1.webp?v=481e2499", "cap": "C³（C-CUBE）烤提拉米蘇（焼きティラミス）", "r": 1.034}], "am-afactory": [{"src": "img/am-afactory-1.webp?v=ae30749d", "cap": "A-FACTORY 蘋果焦糖奶油夾心餅乾（APPLE CARAMEL BUTTER SAND）", "r": 3.289}], "am-ragu": [{"src": "img/am-ragu-1.webp?v=1f324fb4", "cap": "ラグノオ 甜點師的蘋果派棒（パティシエのりんごスティック）", "r": 1.286}], "am-choco": [{"src": "img/am-choco-1.webp?v=f0d2d1d1", "cap": "小松製菓 となりのちょこちゃん（南部仙貝×巧克力）", "r": 0.86}], "am-golden": [{"src": "img/am-golden-1.webp?v=ed8543cd", "cap": "青森 ～金色之約～ 米香夾心餅乾", "r": 1.0}], "am-garlic": [{"src": "img/am-garlic-1.webp?v=113733b6", "cap": "青森大蒜仙貝（にんにくせんべい）", "r": 0.99}], "om-oranda": [{"src": "img/om-oranda-1.webp?v=5abc983a", "cap": "酒田米菓 荷蘭仙貝（オランダせんべい）烤玉米風味", "r": 1.141}], "om-jagabee": [{"src": "img/om-jagabee-1.webp?v=6489b77a", "cap": "Calbee Jagabee（じゃがビー）毛豆泥風味", "r": 0.987}], "om-jagarico": [{"src": "img/om-jagarico-1.webp?v=2b013c13", "cap": "Calbee じゃがりこ 牛たん味", "r": 0.933}], "om-babystar": [{"src": "img/om-babystar-1.webp?v=f6c5efc6", "cap": "ベビースター 牛タン味（仙台發祥・東北限定）", "r": 1.792}], "om-gyusen": [{"src": "img/om-gyusen-1.webp?v=9ad0654a", "cap": "伊達の牛たん本舗 牛たんせんべい", "r": 1.07}], "seiwa": [{"src": "img/seiwa-1.webp?v=0fb713ee", "cap": "焼肉食堂 清和 鳴子店", "r": 1.364}], "egao": [{"src": "img/egao-1.webp?v=38384b57", "cap": "ゑがほ食堂 山菜そば", "r": 1.353}], "nakatsugawa": [{"src": "img/nakatsugawa-1.webp?v=df1d59c7", "cap": "中津川渓谷（磐梯吾妻レークライン沿線）", "r": 0.946}, {"src": "img/nakatsugawa-2.webp?v=80de8694", "cap": "レークライン 秋季紅葉與落葉松景觀點", "r": 1.772}], "lakeresort": [{"src": "img/lakeresort-1.webp?v=7edcbc13", "cap": "露天風呂：緊鄰檜原湖，呈金黃褐色的湯", "r": 1.501}, {"src": "img/lakeresort-2.webp?v=36cb7d5d", "cap": "室內大浴場", "r": 1.475}], "nishimuraya": [{"src": "img/nishimuraya-1.webp?v=50b0d451", "cap": "渓流露天風呂（24 小時開放）", "r": 2.267}, {"src": "img/nishimuraya-2.webp?v=446d8369", "cap": "檜木風呂（男女依時段輪替）", "r": 2.169}, {"src": "img/nishimuraya-3.webp?v=1f4b759f", "cap": "大岩風呂（男女依時段輪替）", "r": 2.302}], "coupon-bic": [{"src": "img/coupon-bic-1.webp?v=dffa415a", "cap": "BicCamera／KOJIMA 免稅優惠券（結帳時兩個條碼都要掃，點圖放大）", "r": 0.8}], "wx-overview": [{"src": "img/wx-overview-1.webp?v=e70983f3", "cap": "天氣總覽（2026/10/26 15:00 預報，10/28、10/30 以預設排法 A 為準）", "r": 0.8}], "kindle": [{"src": "img/kojima-2.webp?v=1c09402c", "cap": "Kindle Paperwhite シグニチャーエディション（kojima.net 截圖，可給店員看）", "r": 0.8}]}/*END*/;
 IMGS.kojima=IMGS["coupon-bic"]||[];
 /* ================= HELPERS ================= */
 const esc = s=>String(s).replace(/[&<>"]/g,c=>({"&":"&amp;","<":"&lt;",">":"&gt;",'"':"&quot;"}[c]));

diff --git a/sw.js b/sw.js
@@ -1,6 +1,6 @@
 // 自動產生：照片離線快取
-const IMG_CACHE="tohoku-img-ae40e9b3", PAGE_CACHE="tohoku-page", RT_CACHE="tohoku-rt";
-const IMGS=["img/abe-1.webp?v=251e3d85", "img/abe-2.webp?v=cc8b6e39", "img/aizu7-1.webp?v=9261fa64", "img/aizu7-2.webp?v=bc8d69d8", "img/almont-1.webp?v=c039600f", "img/almont-2.webp?v=a3db8884", "img/am-afactory-1.webp?v=ae30749d", "img/am-choco-1.webp?v=f0d2d1d1", "img/am-garlic-1.webp?v=113733b6", "img/am-golden-1.webp?v=ed8543cd", "img/am-ragu-1.webp?v=1f324fb4", "img/anko-1.webp?v=b2e63b5a", "img/anko-2.webp?v=dcd4b3b6", "img/botan-1.webp?v=37c76a5c", "img/botan-2.webp?v=2c9359b9", "img/coela-1.webp?v=9e098822", "img/coela-2.webp?v=66b7369c", "img/coupon-bic-1.webp?v=dffa415a", "img/dashiro-1.webp?v=7a4cc8d0", "img/dashiro-2.webp?v=89df7073", "img/egao-1.webp?v=38384b57", "img/endo-1.webp?v=99e77926", "img/endo-2.webp?v=fbb04aa0", "img/fudo-1.webp?v=93d9a0b3", "img/fukase-1.webp?v=98da5d7d", "img/ginzan-1.webp?v=35cf68cd", "img/ginzan-2.webp?v=6c8ef967", "img/ginzan-3.webp?v=bcbed402", "img/ginzan-4.webp?v=0ef7cddb", "img/ginzan-5.webp?v=5289d1ad", "img/goshiki-1.webp?v=3cc0070c", "img/goshiki-2.webp?v=45993578", "img/goshiki-3.webp?v=a34f53d6", "img/goshiki-4.webp?v=6e80a58e", "img/homura-1.webp?v=90503de4", "img/homura-2.webp?v=cfd8c6a4", "img/ida-1.webp?v=27a957d9", "img/kaku-1.webp?v=89fe5f26", "img/kaku-2.webp?v=8aa8a61d", "img/kamomaru-1.webp?v=7345eb6d", "img/kamomaru-2.webp?v=cdb02467", "img/kofuji-1.webp?v=f3df7d8d", "img/kojima-2.webp?v=1c09402c", "img/koshikake-1.webp?v=00721771", "img/koshikake-2.webp?v=a17bb052", "img/lakeresort-1.webp?v=7edcbc13", "img/lakeresort-2.webp?v=36cb7d5d", "img/midoriya-1.webp?v=049a670a", "img/misawaya-1.webp?v=0e39c43d", "img/nakatsugawa-1.webp?v=df1d59c7", "img/nakatsugawa-2.webp?v=80de8694", "img/naruko-1.webp?v=4360db9c", "img/naruko-2.webp?v=1f788efe", "img/naruko-3.webp?v=123037ab", "img/narukorest-1.webp?v=d4ecd665", "img/narukorest-2.webp?v=0b690ca6", "img/nishimuraya-1.webp?v=50b0d451", "img/nishimuraya-2.webp?v=446d8369", "img/nishimuraya-3.webp?v=1f4b759f", "img/okama-1.webp?v=56dbe7d1", "img/okama-2.webp?v=000319d7", "img/okama-3.webp?v=940e5e16", "img/okama-4.webp?v=18a66481", "img/okumura-1.webp?v=246c9d19", "img/om-babystar-1.webp?v=f6c5efc6", "img/om-c3-1.webp?v=481e2499", "img/om-calbee-1.webp?v=85041519", "img/om-date-1.webp?v=576f0820", "img/om-eisen-1.webp?v=096748dd", "img/om-gyusen-1.webp?v=9ad0654a", "img/om-hagi-1.webp?v=20042c76", "img/om-iwabuchi-1.webp?v=200f538d", "img/om-jagabee-1.webp?v=6489b77a", "img/om-jagarico-1.webp?v=2b013c13", "img/om-kikufuku-1.webp?v=f6f4454b", "img/om-kitkat-1.webp?v=047b8a8c", "img/om-oranda-1.webp?v=5abc983a", "img/om-sasa-1.webp?v=37bb7d2e", "img/om-tokimeki-1.webp?v=d5662dd3", "img/om-where-1.webp?v=66b7369c", "img/om-zmochi-1.webp?v=b28e7119", "img/om-zsand-1.webp?v=8c370989", "img/ouchi-1.webp?v=c2d82996", "img/ouchi-2.webp?v=e27ecc67", "img/ropeway-1.webp?v=34fbed52", "img/ropeway-2.webp?v=5f498f0b", "img/ropeway-3.webp?v=569b1de2", "img/saito-1.webp?v=6a9a833f", "img/seiwa-1.webp?v=0fb713ee", "img/shojiya-1.webp?v=8224afa4", "img/shojiya-2.webp?v=94c0c19f", "img/showakan-1.webp?v=87750d88", "img/showakan-2.webp?v=ccaa7ac7", "img/skyline-1.webp?v=28535852", "img/skyline-2.webp?v=66d25be6", "img/tadami-1.webp?v=18cd8bfa", "img/tadami-2.webp?v=afb4f35d", "img/taimenseki-1.webp?v=75f19e00", "img/taimenseki-2.webp?v=9b1da28d", "img/takino-1.webp?v=83a1017d", "img/takino-2.webp?v=34bac679", "img/tamagoyu-1.webp?v=55666296", "img/tamagoyu-2.webp?v=d72ec058", "img/tamagoyu-3.webp?v=cbb45bf0", "img/tamagoyu-4.webp?v=6ce838fc", "img/tamagoyu-5.webp?v=a4d02392", "img/tamagoyu-6.webp?v=df732926", "img/tengu-1.webp?v=d722cad6", "img/tokiwa-1.webp?v=f744c100", "img/tokiwa-2.webp?v=f03a922b", "img/tontei-1.webp?v=1526aa70", "img/tontei-2.webp?v=3b6fcb24", "img/tsuruga-1.webp?v=35e38bc3", "img/tsuruga-2.webp?v=af7526fb", "img/umino-1.webp?v=9eee8bca", "img/wx-overview-1.webp?v=42d41398", "img/yamadera-0.webp?v=d143e5d3", "img/yamadera-1.webp?v=36c22299", "img/yamadera-2.webp?v=1e63aff1", "img/yamadera-3.webp?v=07c523de", "img/yamagata7-1.webp?v=d48bb596", "img/yamagata7-2.webp?v=58e432f2", "img/yamagata7-3.webp?v=add536b4", "img/zaobath-1.webp?v=fff8893e", "img/zaobath-2.webp?v=6c4dbecb", "img/zaoonsen-1.webp?v=48db9404", "img/zaoonsen-2.webp?v=6c8860e0", "img/zaoonsen-3.webp?v=d19f1866", "img/zaoonsen-4.webp?v=540d692a", "img/zaoonsen-5.webp?v=cd50eb9b", "img/zenjiro-1.webp?v=fb9d18cf", "img/zenjiro-2.webp?v=bd183727"];
+const IMG_CACHE="tohoku-img-3c0c1172", PAGE_CACHE="tohoku-page", RT_CACHE="tohoku-rt";
+const IMGS=["img/abe-1.webp?v=251e3d85", "img/abe-2.webp?v=cc8b6e39", "img/aizu7-1.webp?v=9261fa64", "img/aizu7-2.webp?v=bc8d69d8", "img/almont-1.webp?v=c039600f", "img/almont-2.webp?v=a3db8884", "img/am-afactory-1.webp?v=ae30749d", "img/am-choco-1.webp?v=f0d2d1d1", "img/am-garlic-1.webp?v=113733b6", "img/am-golden-1.webp?v=ed8543cd", "img/am-ragu-1.webp?v=1f324fb4", "img/anko-1.webp?v=b2e63b5a", "img/anko-2.webp?v=dcd4b3b6", "img/botan-1.webp?v=37c76a5c", "img/botan-2.webp?v=2c9359b9", "img/coela-1.webp?v=9e098822", "img/coela-2.webp?v=66b7369c", "img/coupon-bic-1.webp?v=dffa415a", "img/dashiro-1.webp?v=7a4cc8d0", "img/dashiro-2.webp?v=89df7073", "img/egao-1.webp?v=38384b57", "img/endo-1.webp?v=99e77926", "img/endo-2.webp?v=fbb04aa0", "img/fudo-1.webp?v=93d9a0b3", "img/fukase-1.webp?v=98da5d7d", "img/ginzan-1.webp?v=35cf68cd", "img/ginzan-2.webp?v=6c8ef967", "img/ginzan-3.webp?v=bcbed402", "img/ginzan-4.webp?v=0ef7cddb", "img/ginzan-5.webp?v=5289d1ad", "img/goshiki-1.webp?v=3cc0070c", "img/goshiki-2.webp?v=45993578", "img/goshiki-3.webp?v=a34f53d6", "img/goshiki-4.webp?v=6e80a58e", "img/homura-1.webp?v=90503de4", "img/homura-2.webp?v=cfd8c6a4", "img/ida-1.webp?v=27a957d9", "img/kaku-1.webp?v=89fe5f26", "img/kaku-2.webp?v=8aa8a61d", "img/kamomaru-1.webp?v=7345eb6d", "img/kamomaru-2.webp?v=cdb02467", "img/kofuji-1.webp?v=f3df7d8d", "img/kojima-2.webp?v=1c09402c", "img/koshikake-1.webp?v=00721771", "img/koshikake-2.webp?v=a17bb052", "img/lakeresort-1.webp?v=7edcbc13", "img/lakeresort-2.webp?v=36cb7d5d", "img/midoriya-1.webp?v=049a670a", "img/misawaya-1.webp?v=0e39c43d", "img/nakatsugawa-1.webp?v=df1d59c7", "img/nakatsugawa-2.webp?v=80de8694", "img/naruko-1.webp?v=4360db9c", "img/naruko-2.webp?v=1f788efe", "img/naruko-3.webp?v=123037ab", "img/narukorest-1.webp?v=d4ecd665", "img/narukorest-2.webp?v=0b690ca6", "img/nishimuraya-1.webp?v=50b0d451", "img/nishimuraya-2.webp?v=446d8369", "img/nishimuraya-3.webp?v=1f4b759f", "img/okama-1.webp?v=56dbe7d1", "img/okama-2.webp?v=000319d7", "img/okama-3.webp?v=940e5e16", "img/okama-4.webp?v=18a66481", "img/okumura-1.webp?v=246c9d19", "img/om-babystar-1.webp?v=f6c5efc6", "img/om-c3-1.webp?v=481e2499", "img/om-calbee-1.webp?v=85041519", "img/om-date-1.webp?v=576f0820", "img/om-eisen-1.webp?v=096748dd", "img/om-gyusen-1.webp?v=9ad0654a", "img/om-hagi-1.webp?v=20042c76", "img/om-iwabuchi-1.webp?v=200f538d", "img/om-jagabee-1.webp?v=6489b77a", "img/om-jagarico-1.webp?v=2b013c13", "img/om-kikufuku-1.webp?v=f6f4454b", "img/om-kitkat-1.webp?v=047b8a8c", "img/om-oranda-1.webp?v=5abc983a", "img/om-sasa-1.webp?v=37bb7d2e", "img/om-tokimeki-1.webp?v=d5662dd3", "img/om-where-1.webp?v=66b7369c", "img/om-zmochi-1.webp?v=b28e7119", "img/om-zsand-1.webp?v=8c370989", "img/ouchi-1.webp?v=c2d82996", "img/ouchi-2.webp?v=e27ecc67", "img/ropeway-1.webp?v=34fbed52", "img/ropeway-2.webp?v=5f498f0b", "img/ropeway-3.webp?v=569b1de2", "img/saito-1.webp?v=6a9a833f", "img/seiwa-1.webp?v=0fb713ee", "img/shojiya-1.webp?v=8224afa4", "img/shojiya-2.webp?v=94c0c19f", "img/showakan-1.webp?v=87750d88", "img/showakan-2.webp?v=ccaa7ac7", "img/skyline-1.webp?v=28535852", "img/skyline-2.webp?v=66d25be6", "img/tadami-1.webp?v=18cd8bfa", "img/tadami-2.webp?v=afb4f35d", "img/taimenseki-1.webp?v=75f19e00", "img/taimenseki-2.webp?v=9b1da28d", "img/takino-1.webp?v=83a1017d", "img/takino-2.webp?v=34bac679", "img/tamagoyu-1.webp?v=55666296", "img/tamagoyu-2.webp?v=d72ec058", "img/tamagoyu-3.webp?v=cbb45bf0", "img/tamagoyu-4.webp?v=6ce838fc", "img/tamagoyu-5.webp?v=a4d02392", "img/tamagoyu-6.webp?v=df732926", "img/tengu-1.webp?v=d722cad6", "img/tokiwa-1.webp?v=f744c100", "img/tokiwa-2.webp?v=f03a922b", "img/tontei-1.webp?v=1526aa70", "img/tontei-2.webp?v=3b6fcb24", "img/tsuruga-1.webp?v=35e38bc3", "img/tsuruga-2.webp?v=af7526fb", "img/umino-1.webp?v=9eee8bca", "img/wx-overview-1.webp?v=e70983f3", "img/yamadera-0.webp?v=d143e5d3", "img/yamadera-1.webp?v=36c22299", "img/yamadera-2.webp?v=1e63aff1", "img/yamadera-3.webp?v=07c523de", "img/yamagata7-1.webp?v=d48bb596", "img/yamagata7-2.webp?v=58e432f2", "img/yamagata7-3.webp?v=add536b4", "img/zaobath-1.webp?v=fff8893e", "img/zaobath-2.webp?v=6c4dbecb", "img/zaoonsen-1.webp?v=48db9404", "img/zaoonsen-2.webp?v=6c8860e0", "img/zaoonsen-3.webp?v=d19f1866", "img/zaoonsen-4.webp?v=540d692a", "img/zaoonsen-5.webp?v=cd50eb9b", "img/zenjiro-1.webp?v=fb9d18cf", "img/zenjiro-2.webp?v=bd183727"];
 self.addEventListener("install",e=>{self.skipWaiting();
   e.waitUntil(caches.open(PAGE_CACHE).then(c=>c.add("./").catch(()=>{})));
 });
